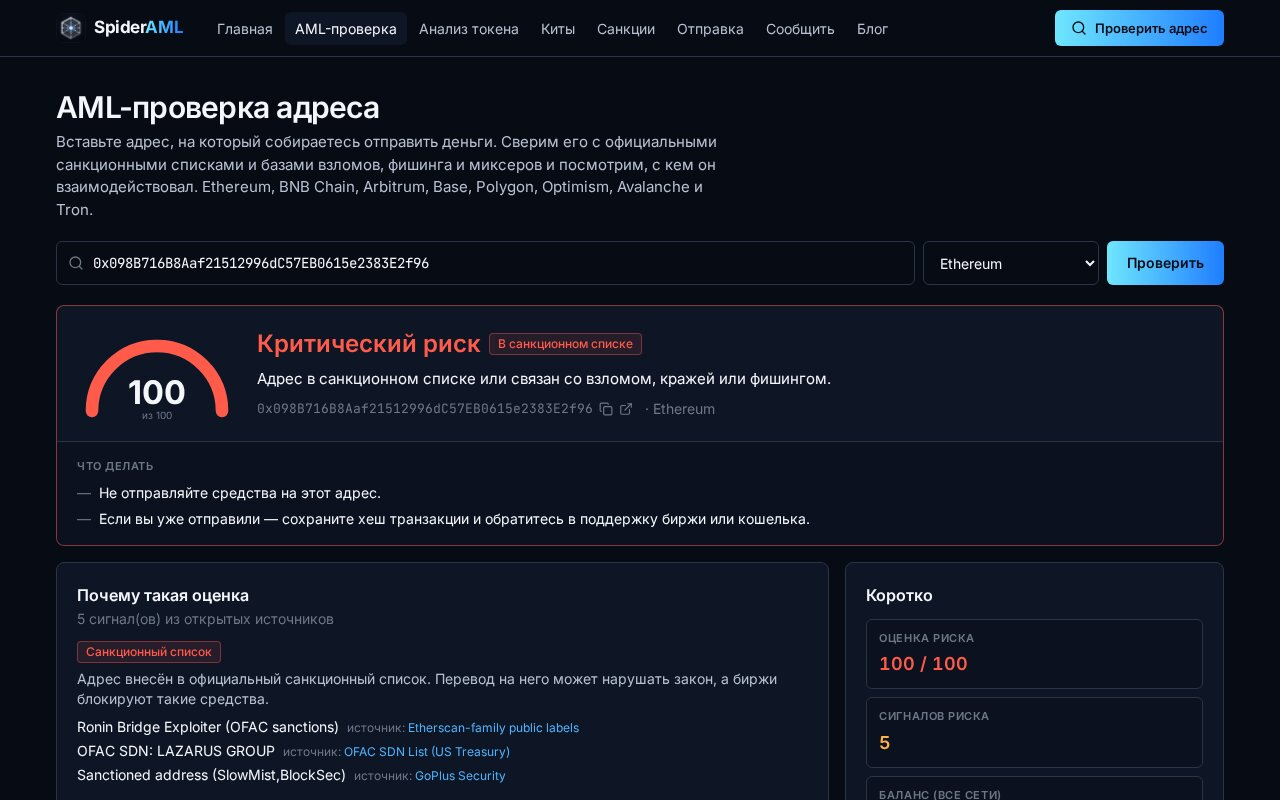
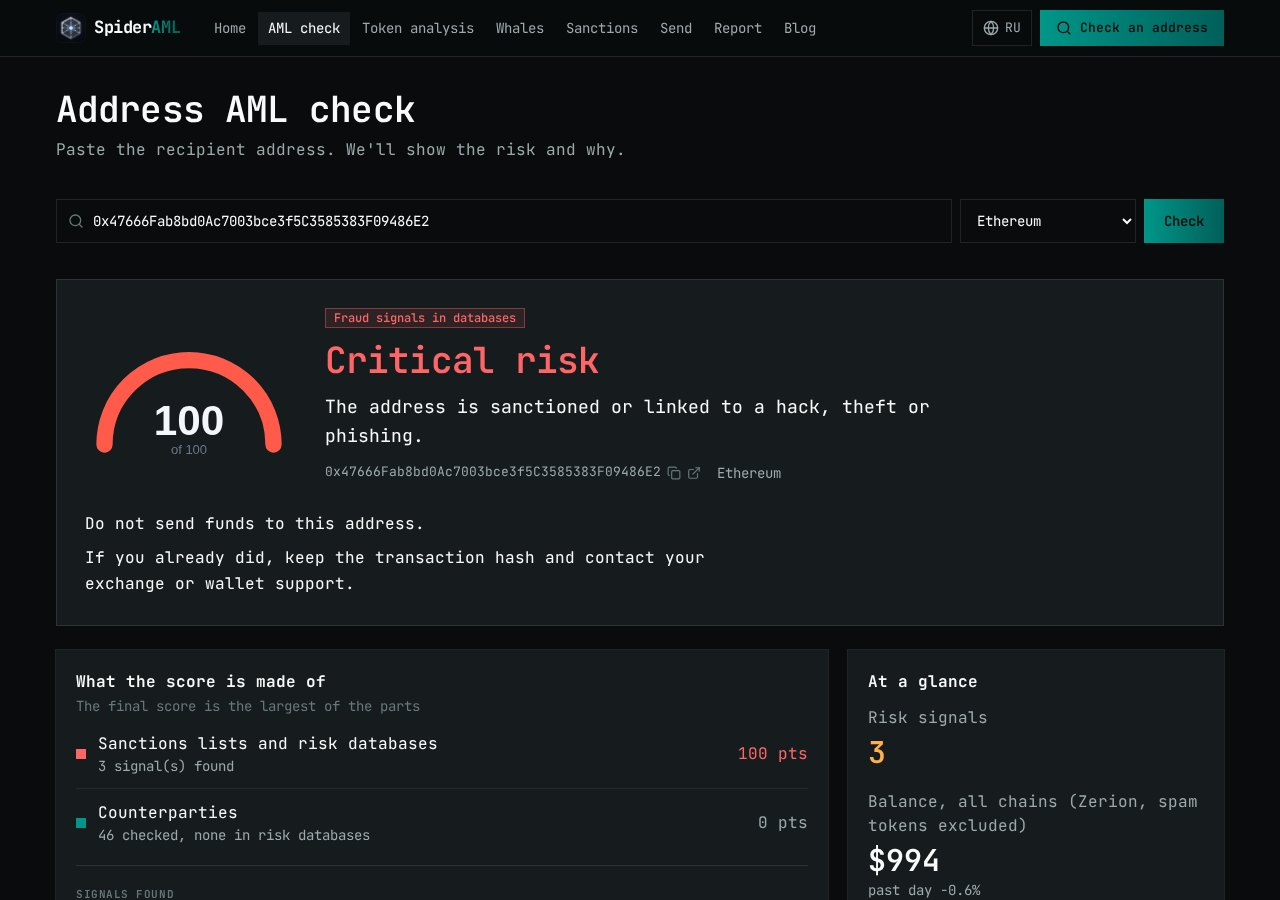
README: current screenshots (check, whales), English interface, Next.js 16, privacy wording matches the analytics, CI/CD

diff --git a/README.md b/README.md
@@ -39,14 +39,14 @@ English, for compliance teams. An ordinary user has nothing but Telegram chats.
 |---|---|---|
 | **Address check** (`/check`) | Is it safe to send money to this address? | Official sanctions lists, exploit / phishing / scam databases, live GoPlus check, risky counterparties in recent transactions, on-chain registry record. Contracts also get token risk factors |
 | **Token analysis** (`/token`) | Can I trust this token? | Price, market cap, CEX and DEX markets with spread and ±2% depth, DEX liquidity, buy/sell flow, top holders with labels, owner and upgrade rights |
-| **Whales** (`/whales`) | Who is buying or dumping right now? | Every transfer above a user-set USD threshold, aggregated per wallet, DEX buys and sells, labels |
+| **Whales** (`/whales`) | Who is buying or dumping right now? | Every transfer above a user-set USD threshold, aggregated per wallet (people and contracts on separate tabs), a link to each wallet's largest transaction, DEX buys and sells, labels |
 | **Sanctions** (`/sanctions`) | Which crypto addresses are officially sanctioned? | OFAC, UK and EU entries with owner, programme, designation date and a link to the official record |
 | **Safe send** (`/send`) | Can a transfer refuse a sanctioned recipient by itself? | `SpiderSend` contract checks both parties against the on-chain registry before moving USDC |
 | **Report** (`/report`) | I was scammed — what now? | Free report form; reports are reviewed by hand, confirmed addresses join the database, the sender sees the status |
 
-Every verdict comes with the reasons, the source of each reason and what to do next. The UI is in Russian.
+Every verdict comes with the reasons, the source of each reason and what to do next. The interface is in Russian and English (a first visit follows the browser language, the switch is in the header).
 
-![Token analysis](docs/img/token.jpg)
+![Whales](docs/img/whales.jpg)
 
 ## How it works
 
@@ -58,8 +58,9 @@ Browser ──HTTPS──▶ Site (Next.js, server-rendered) ──private chann
                                                                          └─ writer key ──▶ SpiderRegistry (on-chain)
 ```
 
-- **Site** (`web/`, this repo). Next.js 15 App Router. Pages are rendered on the server and the browser receives HTML;
-  there is no public JSON API. JavaScript runs in the browser only for the wallet on `/send`.
+- **Site** (`web/`, this repo). Next.js 16 App Router. Pages are rendered on the server and the browser receives HTML;
+  there is no public JSON API. JavaScript in the browser adds forms, sortable tables, the wallet on `/send` and the
+  consent-based analytics below.
 - **Data layer** (separate private service). Downloads the lists, stores them, computes scores, runs token analytics
   and pushes critical addresses on-chain. Holds all provider keys. The site talks to it over a private channel
   authenticated with a shared secret; the data layer has no public address at all.
@@ -127,8 +128,9 @@ the previous data (OFAC refuses to import fewer than 100 addresses).
   and whales.
 - **Enforcement, not only advice.** `SpiderRegistry` can be read by any contract; `SpiderSend` refuses a critical
   counterparty on-chain.
-- **Privacy by design.** No cookies, checked addresses are not stored, visitor metrics are anonymised with a daily
-  rotating salt.
+- **Privacy by design.** No accounts and no IP addresses stored. Own statistics count visitors with an anonymous id
+  that changes every day; checked addresses (public blockchain data) are kept only for usage statistics. Google
+  Analytics 4 loads only after the visitor accepts a banner and never receives addresses or search text.
 - **Small attack surface.** Server-rendered pages, no public API, strict security headers, no wallet SDK dependencies
   (0 known vulnerabilities in production dependencies).
 
@@ -144,7 +146,7 @@ the previous data (OFAC refuses to import fewer than 100 addresses).
   CoinGecko; Tron has no transaction analysis yet; OFAC does not publish a per-address listing date.
 - **False positives are possible.** Open lists contain mistakes; the report form lets anyone dispute a label, but
   official sanctions entries cannot be changed by us.
-- **Early stage.** Contracts run on a testnet, the UI is Russian only, and production runs on a single server.
+- **Early stage.** Contracts run on a testnet and production runs on a single server.
 - **Not a standalone open-source app.** The data layer is private, so this repository alone renders the interface but
   has no data behind it.
 
@@ -177,15 +179,17 @@ Deploy and verify: `scripts/deploy.sh <network>` and `scripts/verify.sh <chainId
 
 | Part | Stack |
 |---|---|
-| Site | Next.js 15, React 19, TypeScript, Tailwind CSS, viem, Recharts, MDX |
+| Site | Next.js 16, React 19, TypeScript, Tailwind CSS 4, shadcn/ui, next-intl, TanStack Query and Table, viem, Recharts, MDX |
 | Data layer | Bun, SQLite, viem, Zod |
 | Contracts | Solidity 0.8.28, Foundry, OpenZeppelin |
 | Hosting | Docker Compose on a VPS behind Cloudflare Tunnel (no inbound ports), Cloudflare Access for the admin panel |
+| CI/CD | GitHub Actions: lint, type-check and tests on every pull request; a merge to `main` builds the image and ships it to the server, with an automatic rollback if it is not healthy |
 
 ## Repository layout
 
 ```
 web/           site (Next.js)
+.github/       CI and deploy workflows
 contracts/     smart contracts and tests (Foundry)
 deployments/   deployed contract addresses per chain
 scripts/       contract deploy / verify, local run
@@ -206,7 +210,7 @@ Contracts build and test without anything else (`cd contracts && forge test`).
 
 ## Roadmap
 
-- Kyrgyz and English interface
+- Kyrgyz interface
 - AML API, address monitoring and alerts for crypto exchangers
 - Manual wallet assessments and token / project due diligence as paid services
 - Deeper tracing (multi-hop fund flows) and Tron transaction analysis
